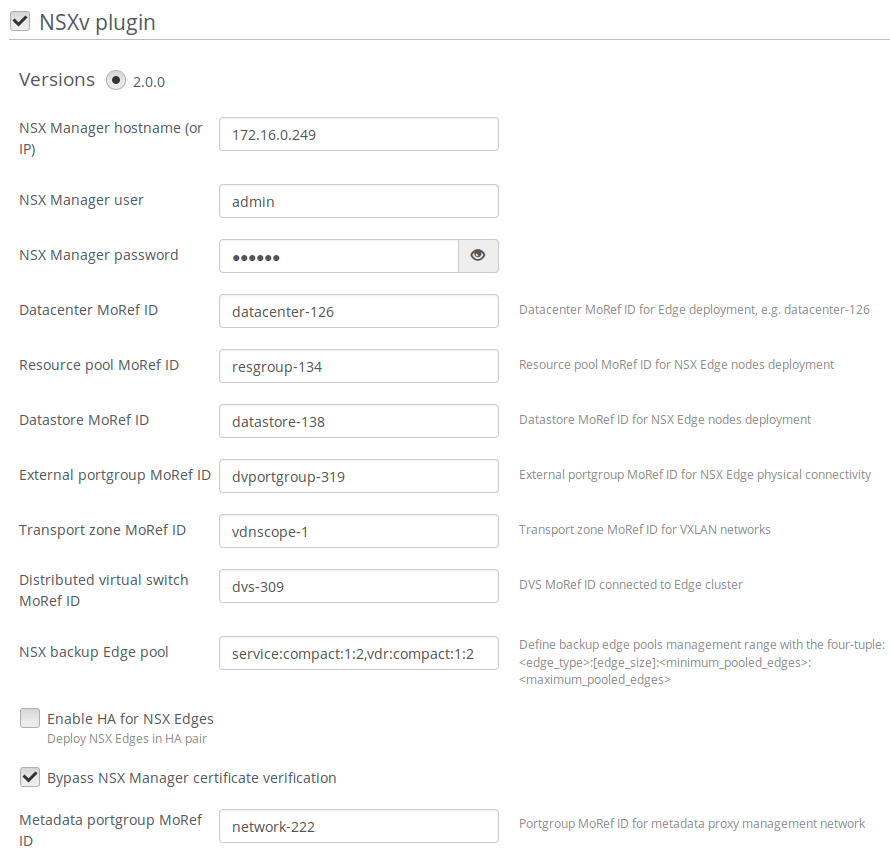
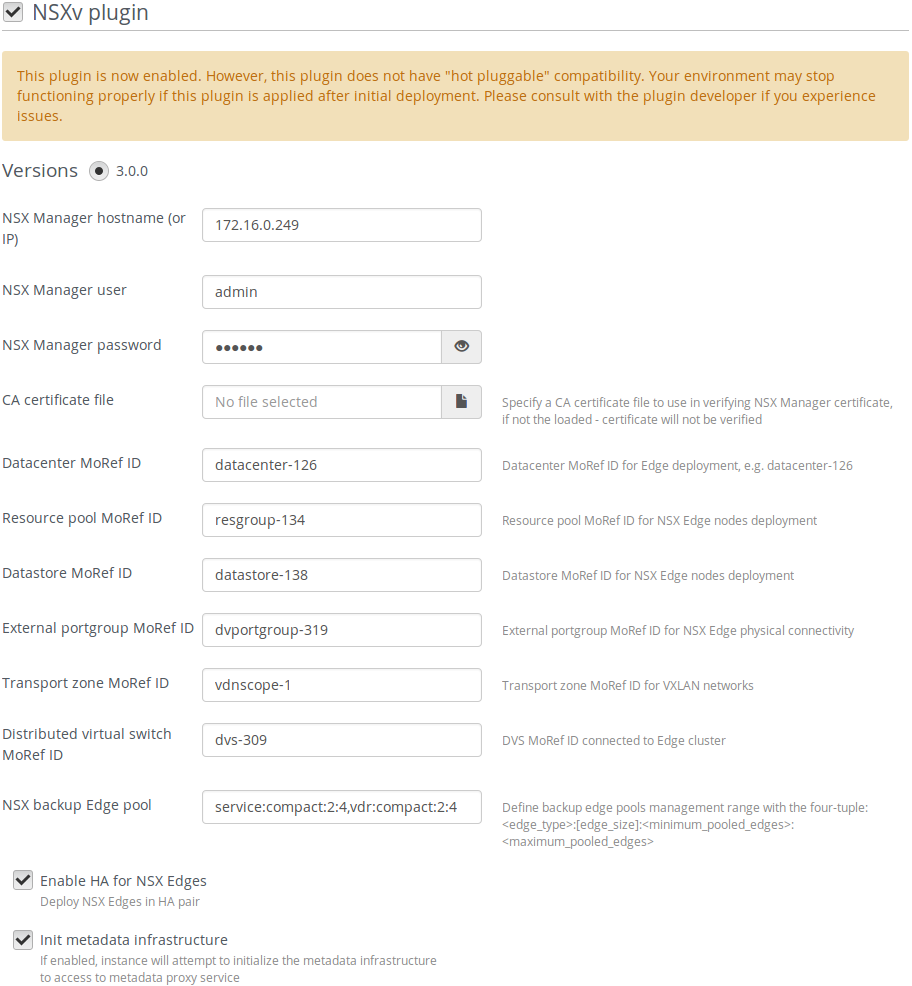
Document certificate and nova-api-metadata network settings for 3.0
- document NSX Manager CA certificate file and drop description of old
  "Bypass NSX Manager certificate verification"
- describe nova-api-metadata network selection drop old "Use management
  network to access the nova-api-metadata" setting
- update screenshot

diff --git a/doc/user/source/configuration.rst b/doc/user/source/configuration.rst
@@ -1,8 +1,9 @@
 Configuration
 =============
 
-Switch to Networks tab of the Fuel web UI and click on *Settings*/*Other* section,
-the plugin checkbox enabled by default.
+Switch to Networks tab of the Fuel web UI and click on *Settings*/*Other*
+section, the plugin checkbox enabled by default. For reasons of clarity not all
+settings are shown on the screenshot below:
 
 .. image:: /image/nsxv-settings-filled.png
    :scale: 60 %
@@ -29,6 +30,10 @@ Plugin contains the following settings:
       must have Enterprise administrator role.
 
 #. NSX Manager password.
+
+#. CA certificate file -- file in PEM format that contains bundle of CA
+   certificates which will be used by Neutron during HTTPS connection to NSX
+   Manager.  If no file is present, then HTTPS connection will not be verified.
 
 #. Datacenter MoRef ID -- ID of Datacenter where NSX Edge nodes will be
    deployed.
@@ -87,24 +92,21 @@ Plugin contains the following settings:
 #. Enable HA for NSX Edges -- if you enable this option NSX Edges will be
    deployed in active/standby pair on different ESXi hosts.
 
-#. Bypass NSX Manager certificate verification -- disable this option if you
-   want Neutron NSX plugin to verify NSX Manager security certificate. *CA
-   certificate file* setting will appear providing an option to upload
-   CA certificate which emitted NSX Manager certificate.
+#. Which network will be used to access the nova-api-metadata -- select network
+   through which nova-api-metadata service will be available for NSX edge
+   nodes. Currently two options are available *Public* and *Management*
+   networks.
+
+   Subitem "Allocate IP address in management network for NSX metadata proxy"
+   allows automatically allocate free IP address from management network range
+   for nova-api-metadata, if you want to specify you own IP address, netmask
+   and gateway see metadata related settings below.
 
    To enable Nova metadata service, the following settings must be set:
 
 #. Init metadata infrastructure -- If enabled, instance will attempt to
    initialize the metadata infrastructure to access to metadata proxy  service,
    otherwise metadata proxy will not be deployed.
-
-#. Use management network to access the nova-api-metadata -- configure
-   nova-api-metadata service to listen on OpenStack management network. If
-   disabled nova-api-metadata will listen on Public network.
-
-#. Allocate IP address in management network for NSX metadata proxy --
-   automatic IP address allocation, if disabled then user have to manually
-   specify IP address, netmask and gateway to avoid possible collisions.
 
 #. Certificate for metadata proxy -- certificate in PEM format that will be
    used to secure connection between metadata proxy and metadata agent (NSX
